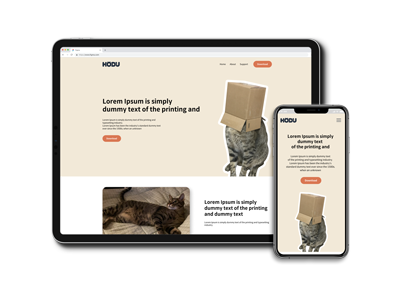
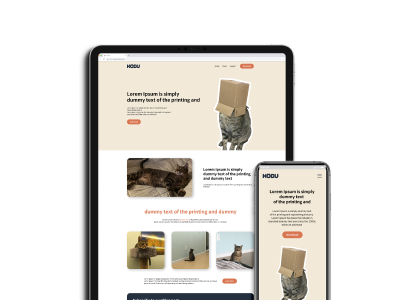
update work

diff --git a/css/work.css b/css/work.css
@@ -48,22 +48,22 @@
 }
 
 .workOne {
-    background-image: url(../img/landingPage.jpg);
+    background-image: url(../img/jump.png);
     background-size: 100% 100%;
 }
 
 .workTwo {
-    background-image: url(../img/landingPage.jpg);
+    background-image: url(../img/hours.png);
     background-size: 100% 100%;
 }
 
 .workThree {
-    background-image: url(../img/landingPage.jpg);
+    background-image: url(../img/fanletter.png);
     background-size: 100% 100%;
 }
 
 .workFour {
-    background-image: url(../img/landingPage.jpg);
+    background-image: url(../img/portfolio.png);
     background-size: 100% 100%;
 }
 
@@ -73,7 +73,7 @@
 }
 
 .workSix {
-    background-image: url(../img/landingPage.png);
+    background-image: url(../img/landingpage.png);
     background-size: 100% 100%;
 }
 
